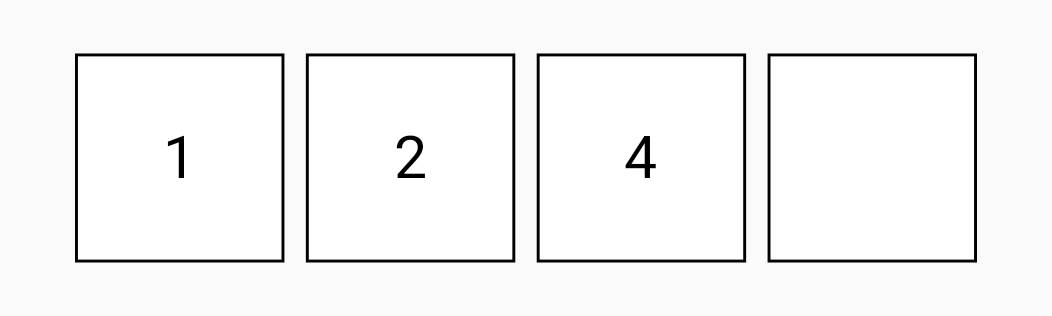
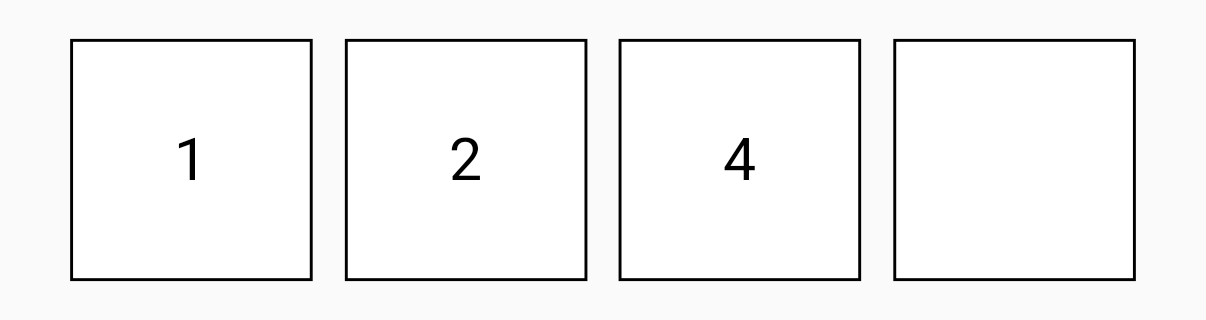
Kotlin multiplatform specific documentation added.
Updated screenshots with updated changes for KMM.

diff --git a/app/src/main/java/com/example/otpfield/OtpInputField.kt b/app/src/main/java/com/example/otpfield/OtpInputField.kt
@@ -352,7 +352,7 @@ fun OtpView_Preivew() {
             mutableStateOf("124")
         }
         Column(
-            modifier = Modifier.padding(20.pxToDp()),
+            modifier = Modifier.padding(40.pxToDp()),
             verticalArrangement = Arrangement.spacedBy(20.pxToDp())
         ) {
             OtpInputField(
@@ -366,12 +366,11 @@ fun OtpView_Preivew() {
 
             OtpInputField(
                 otp = otpValue,
-                count = 5,
+                count = 4,
                 otpTextType = KeyboardType.NumberPassword,
                 otpBoxModifier = Modifier
-                    .border(1.pxToDp(), Color.Gray)
+                    .border(3.pxToDp(), Color.Gray)
                     .background(Color.White)
-                    .padding(4.pxToDp())  // Padding inside OTP boxes should be handled carefully
             )
 
             OtpInputField(
@@ -379,14 +378,14 @@ fun OtpView_Preivew() {
                 count = 5,
                 textColor = MaterialTheme.colorScheme.onBackground,
                 otpBoxModifier = Modifier
-                    .border(2.pxToDp(), Color(0xFF277F51), shape = RoundedCornerShape(4.pxToDp()))
+                    .border(7.pxToDp(), Color(0xFF277F51), shape = RoundedCornerShape(12.pxToDp()))
             )
 
             OtpInputField(
                 otp = otpValue,
                 count = 5,
                 otpBoxModifier = Modifier
-                    .bottomStroke(color = Color.DarkGray, strokeWidth = 2.pxToDp())
+                    .bottomStroke(color = Color.DarkGray, strokeWidth = 6.pxToDp())
             )
         }
     }

diff --git a/README.md b/README.md
@@ -32,7 +32,9 @@ fun ExampleOtpScreen() {
     OtpInputField(
         otp = otpValue,
         count = 4,
-        otpBoxModifier = Modifier.border(1.dp, Color.Black).background(Color.White),
+        otpBoxModifier = Modifier
+            .border(3.pxToDp(), Color.Black)
+            .background(Color.White),
         otpTextType = KeyboardType.Number
     )
 }
@@ -47,12 +49,11 @@ Enable character masking for enhanced security, suitable for PINs or passwords:
 ```kotlin
 OtpInputField(
     otp = otpValue,
-    count = 5,
+    count = 4,
     otpTextType = KeyboardType.NumberPassword,
     otpBoxModifier = Modifier
-        .border(1.dp, Color.Gray)
+        .border(3.pxToDp(), Color.Gray)
         .background(Color.White)
-        .padding(4.dp)  // Padding inside OTP boxes should be handled carefully
 )
 ```
 ![Secure Input](readmeassets/secure_input.png?raw=true "Secure Setup")
@@ -69,8 +70,7 @@ OtpInputField(
     count = 5,
     textColor = Color.White,
     otpBoxModifier = Modifier
-        .size(50.dp)
-        .border(2.dp, Color(0xFF277F51), shape = RoundedCornerShape(4.dp))
+        .border(7.pxToDp(), Color(0xFF277F51), shape = RoundedCornerShape(12.pxToDp()))
 )
 ```
 ![Boxy Design](readmeassets/boxy_otp_field.png?raw=true "Boxy Design")
@@ -84,7 +84,7 @@ OtpInputField(
     otp = otpValue,
     count = 5,
     otpBoxModifier = Modifier
-        .bottomStroke(color = Color.DarkGray, strokeWidth = 2.dp)
+        .bottomStroke(color = Color.DarkGray, strokeWidth = 6.pxToDp())
 )
 ```
 ![Underline Design](readmeassets/underline_otp_field.png?raw=true "Underline Design")
@@ -100,6 +100,56 @@ OtpInputField(
 - **otpTextType**: A `KeyboardType` that specifies the type of keyboard to show when a field is focused. This can be set to `KeyboardType.Number` for numeric OTPs or `KeyboardType.Text` for alphanumeric OTPs, depending on the security requirements of the application.
 
 - **textColor**: A `Color` used to set the text color within each OTP box. This parameter provides the ability to customize the color of the text inside the OTP boxes, allowing for better integration with the overall design theme of the application.
+
+
+### Rationale Behind Using `pxToDp` Instead of `.dp` Directly
+
+The OTP Field component was initially designed for Android using Jetpack Compose, but with an eye toward compatibility and ease of adaptation for Kotlin Multiplatform Mobile (KMM) projects. This foresight influenced the decision to use pxToDp instead of directly using .dp. The approach was chosen to ensure that the component could be ported to KMM projects with minimal changes, accommodating the unique rendering behaviors on different platforms, especially iOS.
+
+#### Issue with Standard `.dp` Usage
+
+While .dp (density-independent pixels) is effective for scaling UI elements appropriately on Android, it often leads to inconsistent sizing on iOS devices within KMM projects. This discrepancy occurs because .dp units do not automatically adjust to the screen densities of iOS devices, leading to UI elements that do not appear as intended when shared between Android and iOS.
+
+#### Implementing `pxToDp`
+
+To address these challenges and ensure a seamless user experience across both platforms, the `pxToDp` function was implemented. This custom function calculates density-independent pixels by explicitly considering the screen density at runtime, ensuring that dimensions remain consistent and visually proportionate across all devices.
+
+```kotlin
+@Composable
+fun Dp.dpToPx() = with(LocalDensity.current) { this@dpToPx.toPx() }
+
+@Composable
+fun Int.pxToDp() = with(LocalDensity.current) { this@pxToDp.toDp() }
+```
+
+The adoption of `pxToDp` in the OTP Field component thus addresses a critical challenge in multiplatform development by ensuring that all users, regardless of their device, experience the UI as designed.
+
+### Kotlin Multiplatform Mobile (KMM) Adaptation
+
+The OTP Field component, while initially designed for Android, can be adapted for use in Kotlin Multiplatform Mobile projects with some specific modifications. This ensures that the widget is functional and visually consistent on both Android and iOS platforms.
+
+#### Necessary Modifications for Porting
+
+To effectively port the OTP Field component to KMM, a key modification involves replacing `LocalConfiguration.current.screenWidthDp` with `LocalWindowInfo.current.containerSize.width`. This change ensures that dimensions are calculated based on the actual container size, which is critical for proper scaling on different devices:
+
+```kotlin
+val screenWidth = LocalWindowInfo.current.containerSize.width
+```
+
+#### Known Issue on iOS
+
+There is a recognized issue with the `BasicTextField` on iOS, where the cursor in an empty `BasicTextField` aligns only to the left side (start) when `TextAlign` is set to right (end). This issue can affect the user experience on iOS, particularly in scenarios where text alignment is crucial. The problem is documented in the JetBrains Compose Multiplatform repository:
+
+- **Similar Issue Link**: [GitHub Issue #4611](https://github.com/JetBrains/compose-multiplatform/issues/4611)
+
+
+<p align="center">
+  <img src="readmeassets/ios_recording.gif?raw=true" alt="Demo">
+</p>
+
+
+
+
 
 
 
